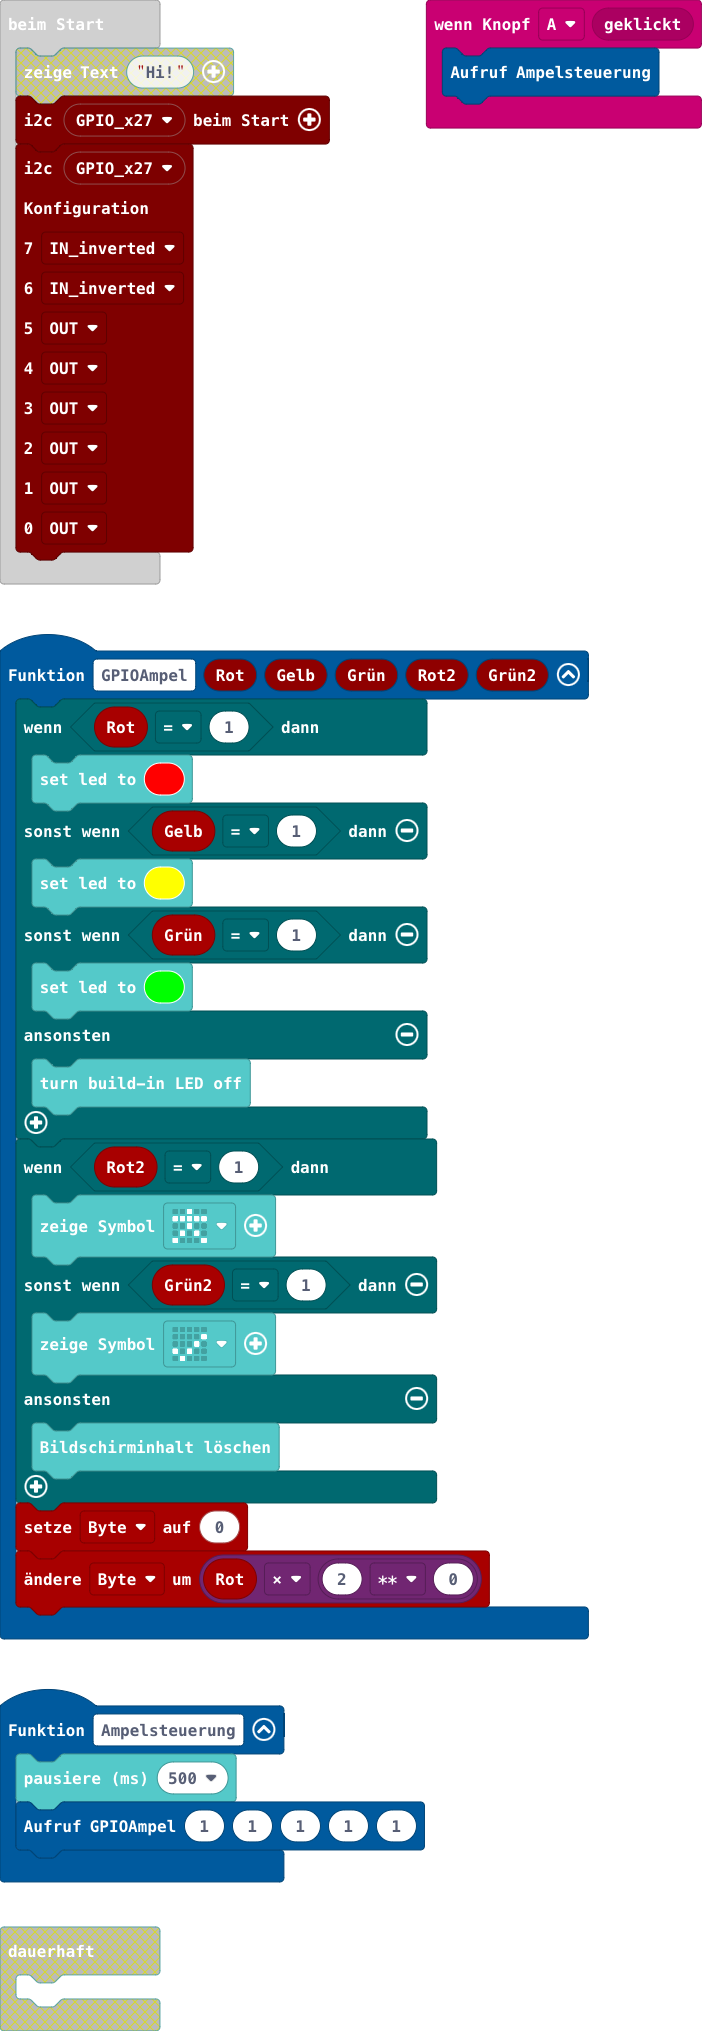
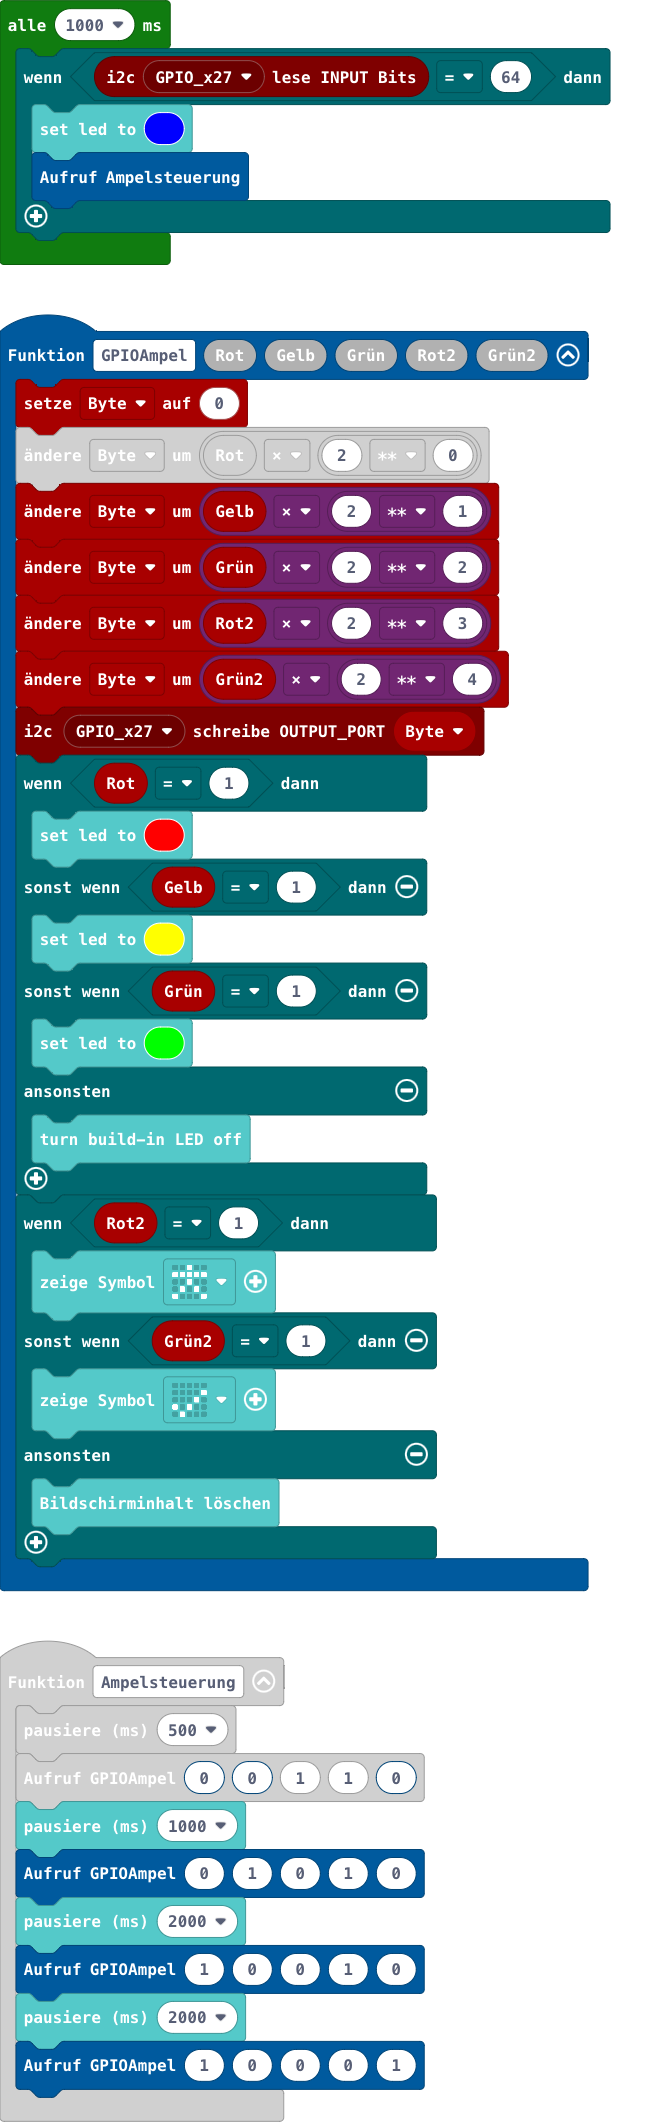
Aktualisiere main.blocks, main.ts

diff --git a/main.ts b/main.ts
@@ -3,9 +3,22 @@ input.onButtonEvent(Button.A, input.buttonEventClick(), function () {
 })
 function Ampelsteuerung () {
     basic.pause(500)
-    GPIOAmpel(1, 1, 1, 1, 1)
+    GPIOAmpel(0, 0, 1, 1, 0)
+    basic.pause(1000)
+    GPIOAmpel(0, 1, 0, 1, 0)
+    basic.pause(2000)
+    GPIOAmpel(1, 0, 0, 1, 0)
+    basic.pause(2000)
+    GPIOAmpel(1, 0, 0, 0, 1)
 }
 function GPIOAmpel (Rot: number, Gelb: number, Grün: number, Rot2: number, Grün2: number) {
+    Byte = 0
+    Byte += Rot * 2 ** 0
+    Byte += Gelb * 2 ** 1
+    Byte += Grün * 2 ** 2
+    Byte += Rot2 * 2 ** 3
+    Byte += Grün2 * 2 ** 4
+    qwiicgpio.writeOUTPUT_PORT(qwiicgpio.qwiicgpio_eADDR(qwiicgpio.eADDR.GPIO_x27), Byte)
     if (Rot == 1) {
         basic.setLedColor(0xff0000)
     } else if (Gelb == 1) {
@@ -22,8 +35,6 @@ function GPIOAmpel (Rot: number, Gelb: number, Grün: number, Rot2: number, Grü
     } else {
         basic.clearScreen()
     }
-    Byte = 0
-    Byte += Rot * 2 ** 0
 }
 let Byte = 0
 qwiicgpio.beimStart(qwiicgpio.qwiicgpio_eADDR(qwiicgpio.eADDR.GPIO_x27))
@@ -38,3 +49,9 @@ qwiicgpio.eIO.OUT,
 qwiicgpio.eIO.OUT,
 qwiicgpio.eIO.OUT
 )
+loops.everyInterval(1000, function () {
+    if (qwiicgpio.readINPUT_PORT(qwiicgpio.qwiicgpio_eADDR(qwiicgpio.eADDR.GPIO_x27)) == 64) {
+        basic.setLedColor(0x0000ff)
+        Ampelsteuerung()
+    }
+})
